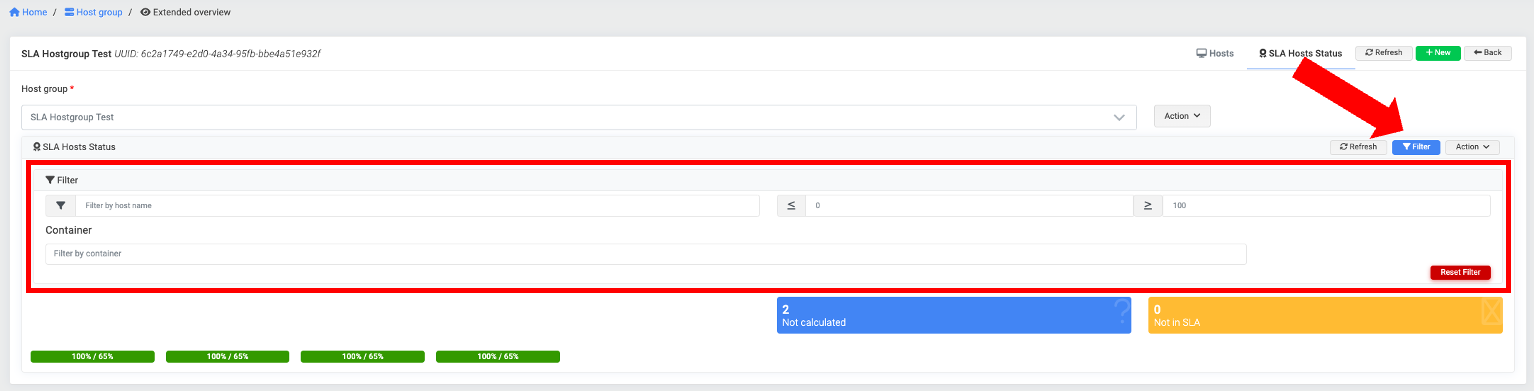
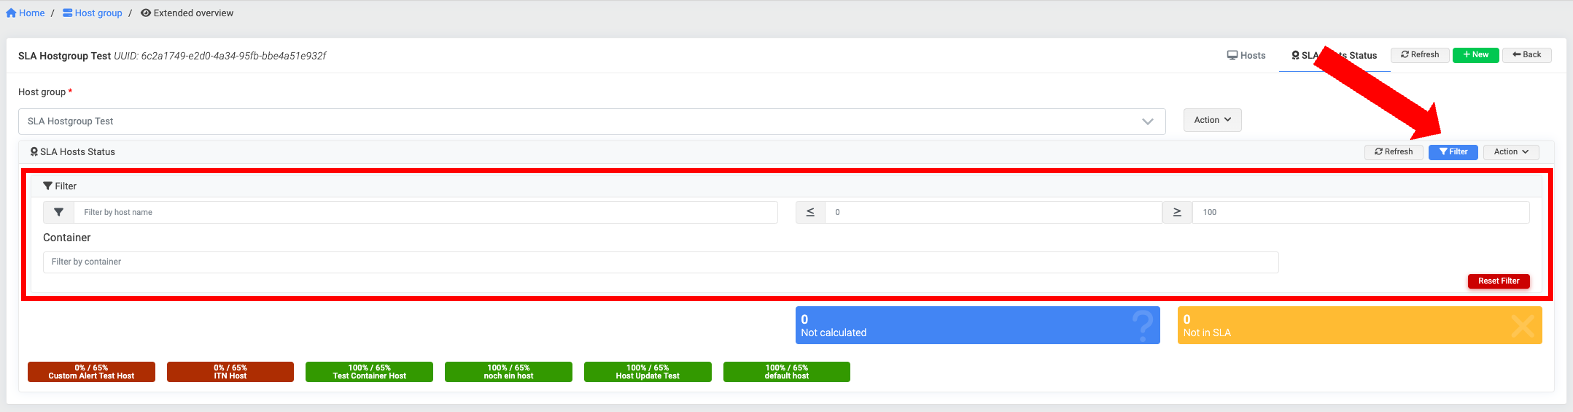
ITC-3170 - updated images and description

diff --git a/de/docs/reporting/sla.md b/de/docs/reporting/sla.md
@@ -126,7 +126,7 @@ Der Status wir immer aufsteigend angezeigt. Das bedeutet, die Hosts mit der nied
 
 Jede einzelne Kachel zeigt den aktuellen Verfügbarkeitswert und den Mindestverfügbarkeitswert in % an und ist auf den SLA Tab in `Hosts->Browser` verlinkt (Darstellung: aktueller Verfügbarkeitswert / Mindestverfügbarkeitswert %). Sollte der der Mindestverfügbarkeitswert unterschritten werden, dann wird die Kachel rot eingefärbt, andernfalls grün.
 
-Hält man den Mauszeiger länger auf eine Kachel erscheint der jeweilige Hostname, dem der Status zugeordnet ist, im Tooltip.   
+Unter den Verfügbarkeitswerten steht der Hostname, dem die Werte zugeordnet sind. 
 
 ![SLA Hostgroup Hosts Status Übersicht Kachel](/images/sla/sla_hostgroup_hosts_status_overview_tile.png)
 

diff --git a/en/docs/reporting/sla.md b/en/docs/reporting/sla.md
@@ -122,7 +122,7 @@ The status is always displayed in ascending order. This means that the hosts wit
 
 Each individual tile shows the current availability value and the minimum availability value in % and is linked to the SLA tab in `Hosts->Browser` (display: current availability value / minimum availability value %). If the minimum availability value is not reached, the tile is colored red, otherwise green.
 
-If you hold the mouse pointer over a tile for longer, the respective host name to which the status is assigned appears in the tooltip. 
+The host name to which the values are assigned is shown below the availability values. 
 
 ![SLA Hostgroup Hosts Status Overview Tile](/images/sla/sla_hostgroup_hosts_status_overview_tile.png)
 
